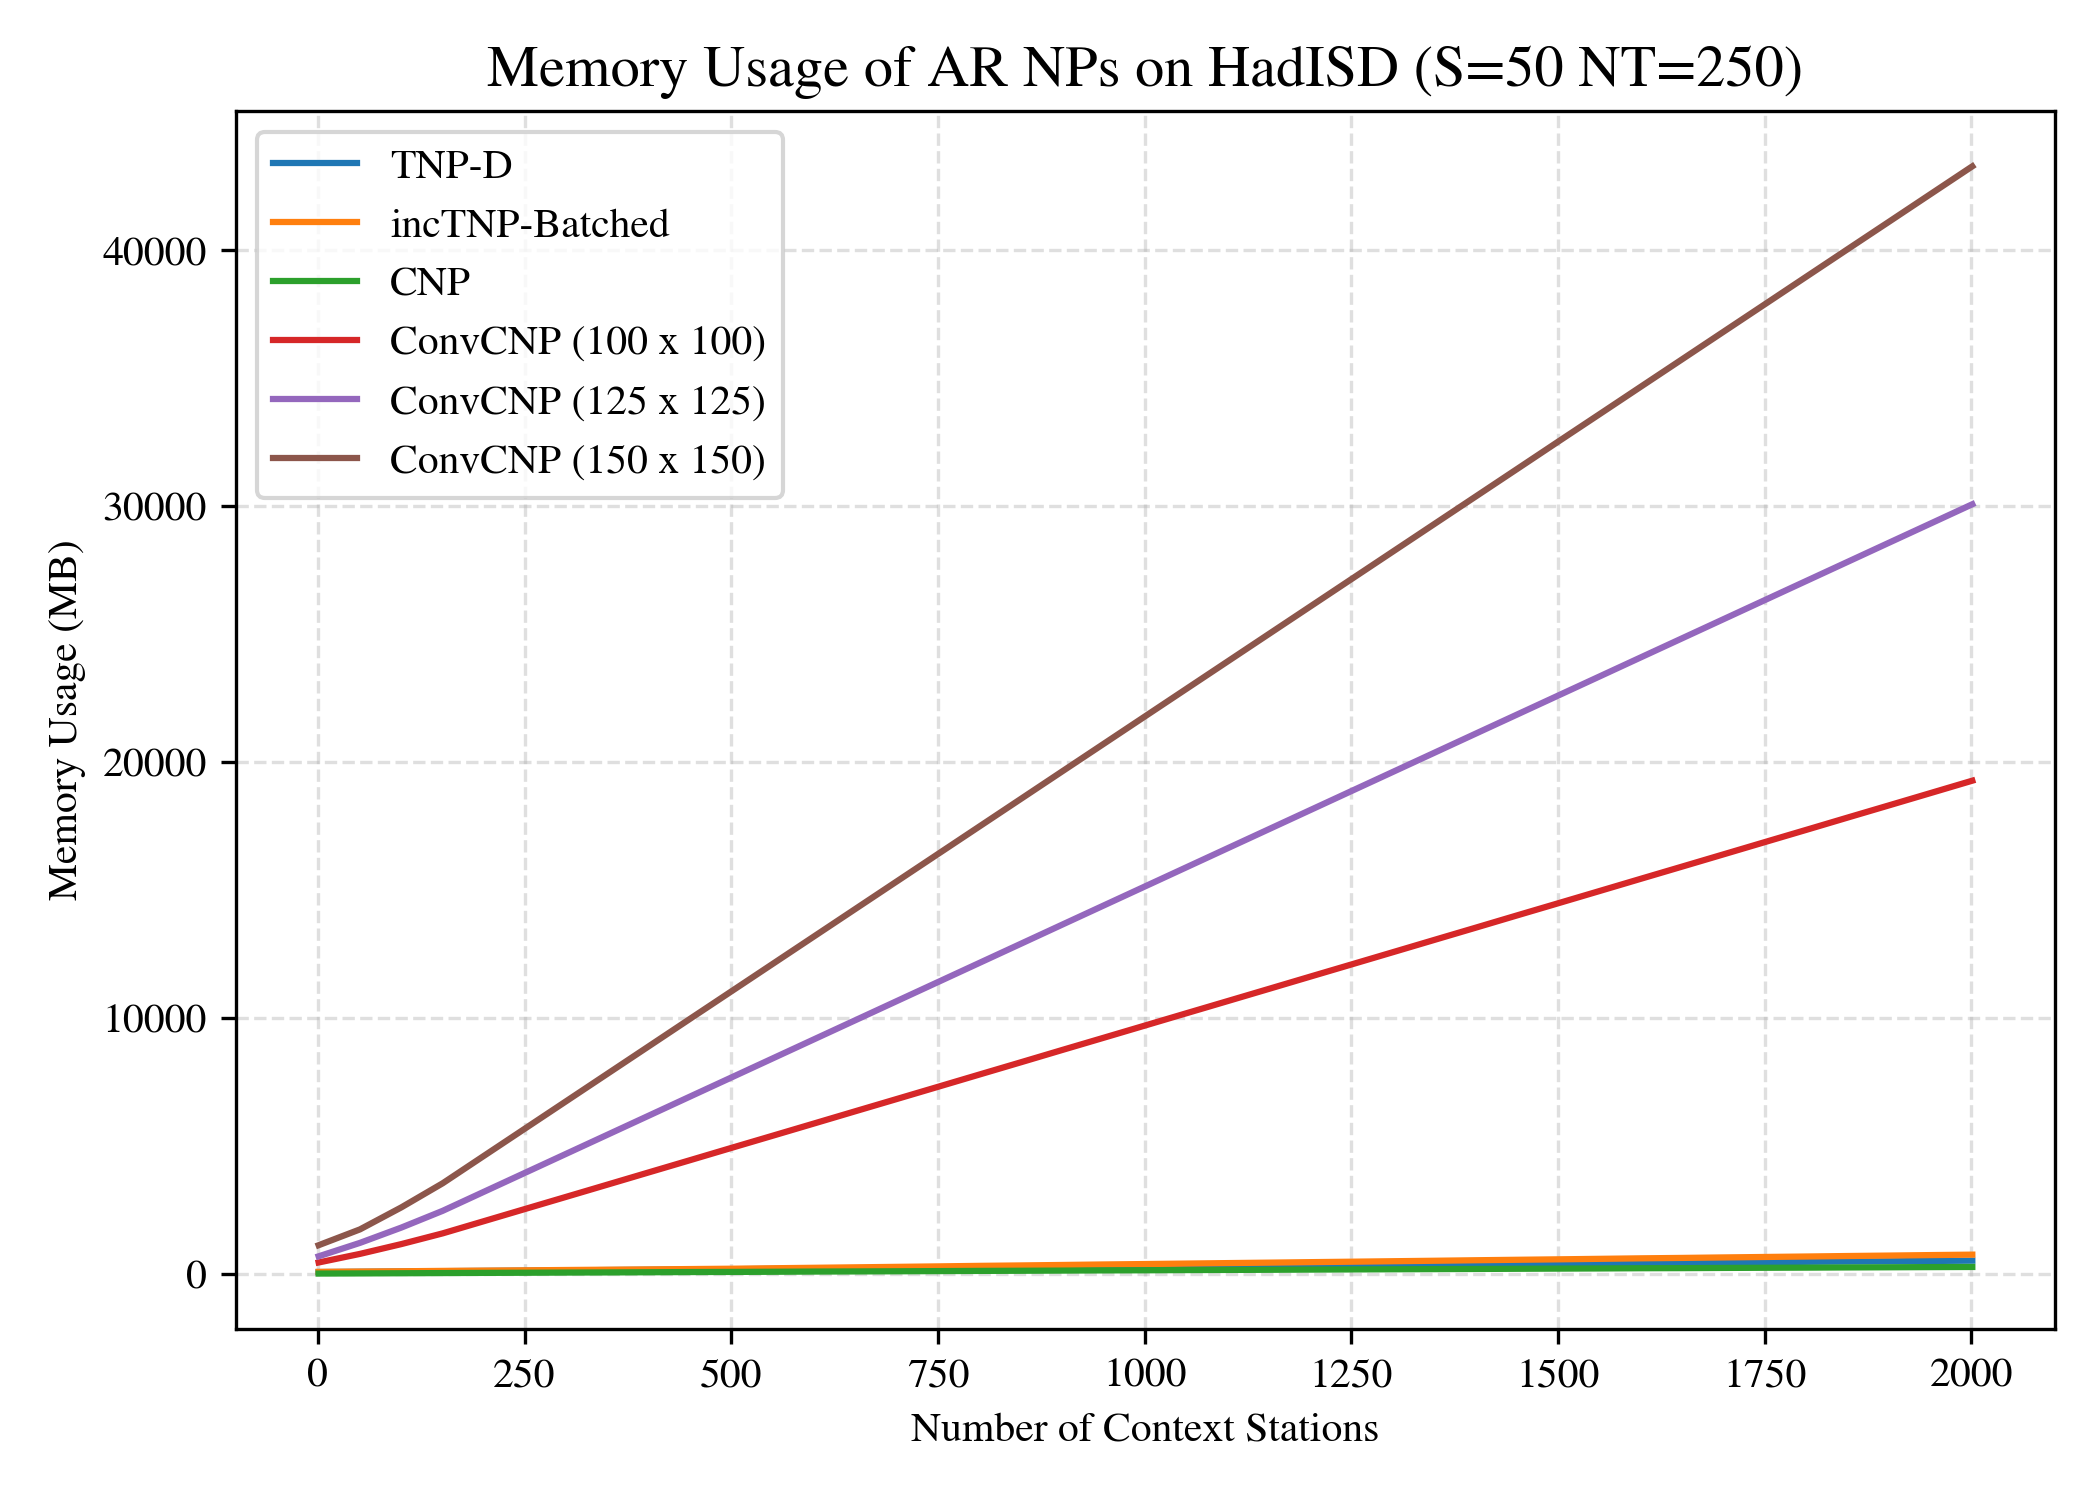
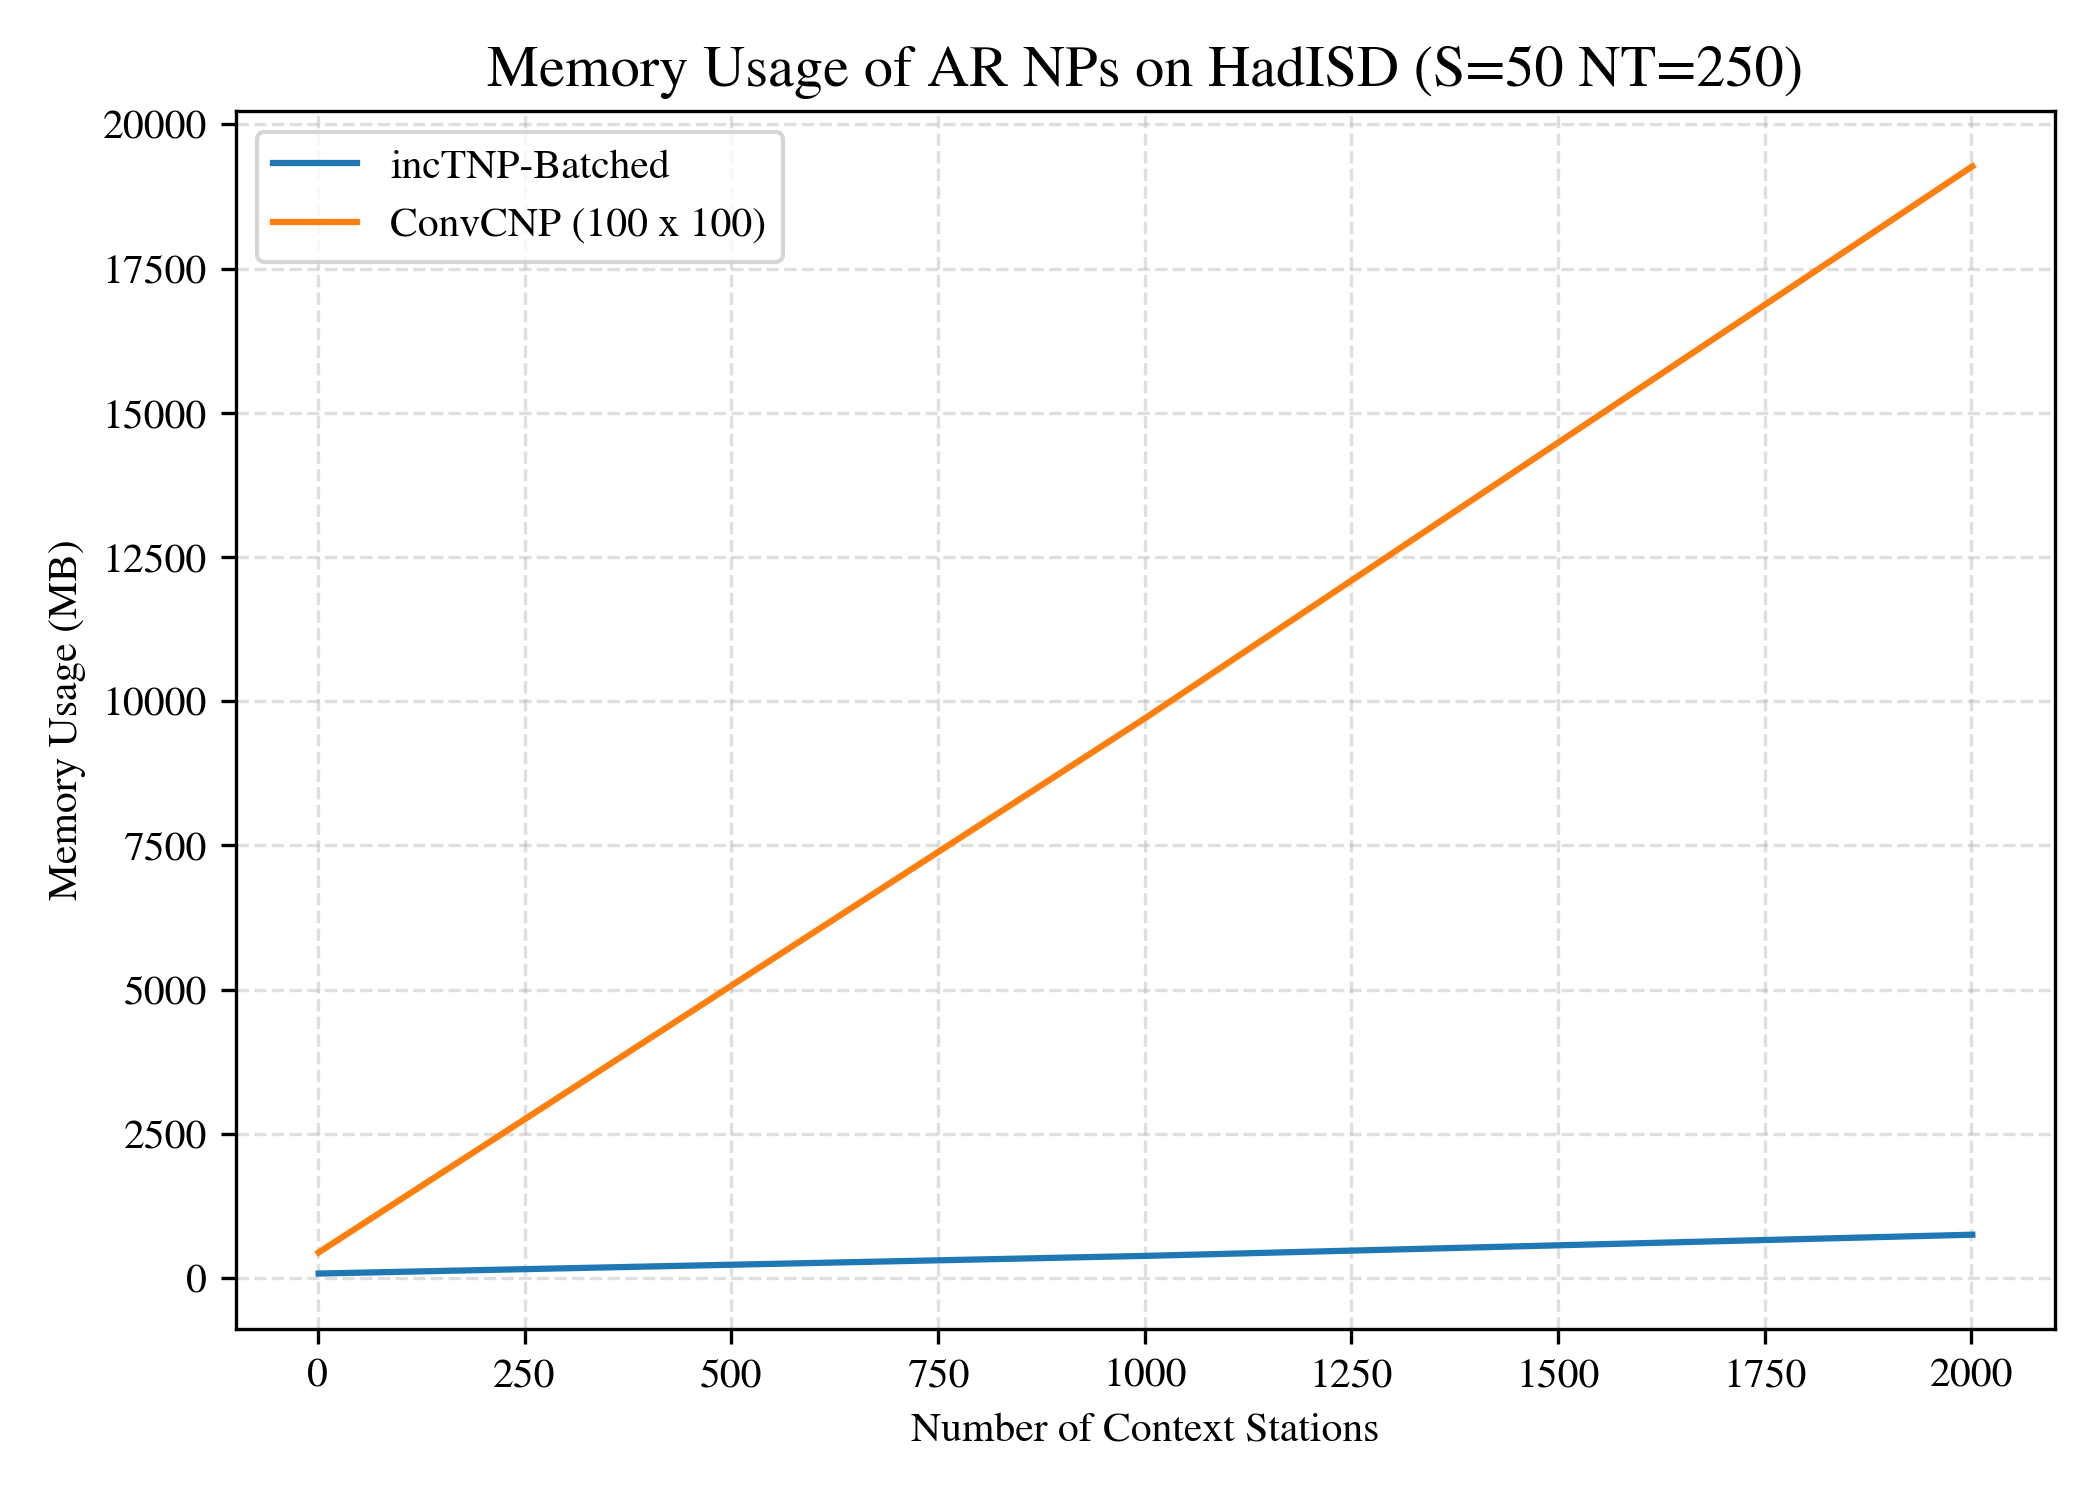
smoll

diff --git a/experiments/arnphad_isd.py b/experiments/arnphad_isd.py
@@ -140,6 +140,7 @@ def ar_predict(model, xc: torch.Tensor, yc: torch.Tensor, xt: torch.Tensor,
         model.update_ctx(xc=xc_stacked, yc=yc_stacked,use_flash=use_flash)
     elif is_fixed_inc_update:
         model.init_inc_structs_fixed(m=xc_stacked.shape[0], max_nc=nc+nt, xt=xt_stacked, dy=dy, device=device, use_flash=use_flash)
+        model.update_ctx_fixed(xc=xc_stacked, yc=yc_stacked,use_flash=use_flash) # Added in degubg this maybe
 
     for i in range(nt):
         xt_tmp = xt_stacked[:, i:i+1,:]
@@ -281,6 +282,8 @@ def measure_perf_timings_hadisd_plot():
         'pm846-university-of-cambridge/plain-tnp-had/model-o20d6s1q:v99', 'TNP-D')
     batchedTNP = ('experiments/configs/hadISD/had_incTNP_batched.yml',
         'pm846-university-of-cambridge/mask-batched-tnp-had/model-z5nlguxq:v99', 'incTNP-Batched')
+    batchedTNP_no_flash = ('experiments/configs/hadISD/had_incTNP_batched.yml',
+        'pm846-university-of-cambridge/mask-batched-tnp-had/model-z5nlguxq:v99', 'incTNP-Batched (No Flash)')
     cnp = ('experiments/configs/hadISD/had_cnp.yml',
         'pm846-university-of-cambridge/cnp-had/model-suqmhf9v:v99', 'CNP')
     conv_cnp = ('experiments/configs/hadISD/had_convcnp.yml',
@@ -292,6 +295,7 @@ def measure_perf_timings_hadisd_plot():
     conv_cnp_150 = ('experiments/configs/hadISD_csd3/alt_variants/had_between_convcnp.yml',
         '', 'ConvCNP (150 x 150)')      
     models = [tnp_plain, batchedTNP, cnp, conv_cnp_big, conv_cnp_125, conv_cnp_150]
+    models = [tnp_plain, batchedTNP, batchedTNP_no_flash, cnp, conv_cnp_big, conv_cnp_125, conv_cnp_150]
     # End of measure hypers
     max_high = 2
     xt = (torch.rand((m, nt, dx), device=device) * max_high * 2) - max_high
@@ -486,7 +490,8 @@ def get_model_list():
     #models = [tnp_plain, incTNP, batchedTNP, priorBatched, lbanp, cnp, conv_cnp]
     #models = [batchedTNP, conv_cnp, cnp, incTNP, priorBatched, tnp_plain, lbanp]
     all_models = [tnp_plain, incTNP, batchedTNP, priorBatched, lbanp, cnp, conv_cnp, conv_cnp_100]
-    return all_models
+    models = [batchedTNP, cnp, conv_cnp, conv_cnp_100, lbanp, incTNP, priorBatched]
+    return models
 
 # Compares NP models in AR mode on RBF set
 def compare_had_models(base_out_txt_file: str, rollout_rmse: bool, device: str = "cuda"):
@@ -553,6 +558,7 @@ def compare_had_models(base_out_txt_file: str, rollout_rmse: bool, device: str =
 
 
 if __name__ == "__main__":
+    measure_perf_timings_hadisd_plot()
     compare_had_models(base_out_txt_file="experiments/plot_results/hadar/ar_had_comp_cnpsnew", rollout_rmse=True)
     #plot_ar_unrolls()
     #measure_perf_timings()
